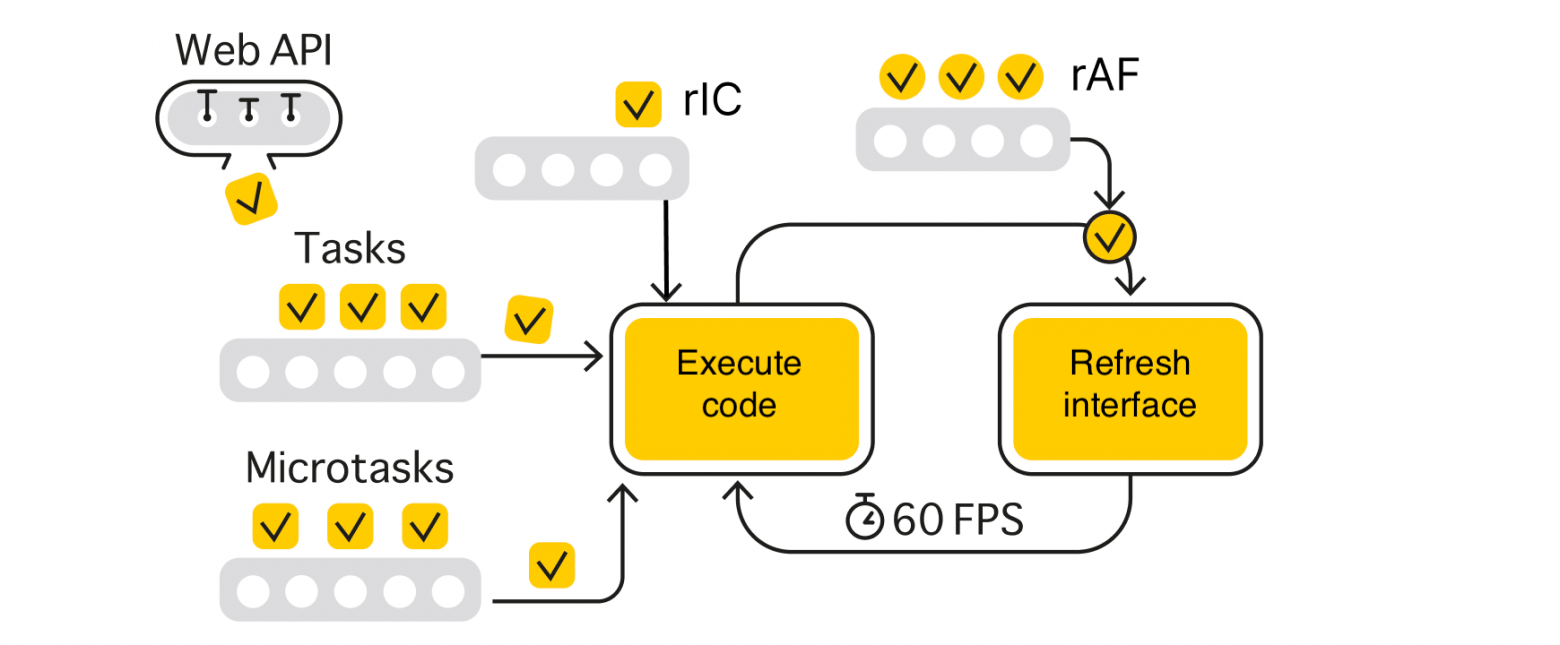
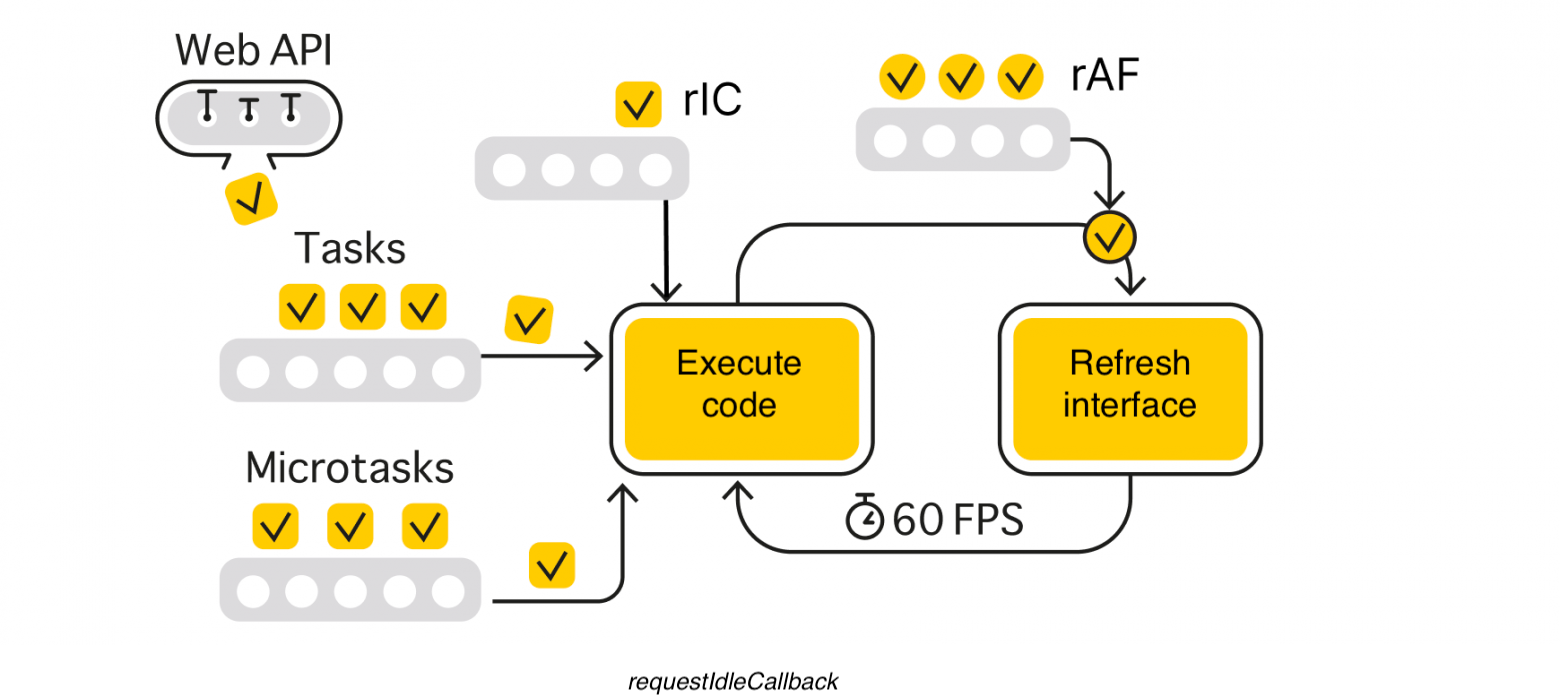
Images

Changed region(s): [[0.0923, 0.031, 0.8308, 0.9612], [0.3077, 0.093, 0.4923, 0.3101], [0.4, 0.9612, 0.5538, 0.9922]]

diff --git a/README.md b/README.md
@@ -305,10 +305,6 @@ As a second argument, you can specify a timeout, and if the task is not complete
 Similar to requestAnimationFrame, to regularly add a task to the queue, you will need to write a recursive function, and to stop it - pass the current identifier to cancelIdleCallback.
 
 ![img.png](request-idle-callback.png?)
-<figcaption align="center">
-<i>requestAnimationFrame</i>
-</figcaption>
-<br />
 
 In contrast to the other queues discussed earlier, requestIdleCallback is still partly an experimental API, with support [missing in Safari](https://caniuse.com/?search=cancelIdleCallback). In addition, this function has a [number of limitations](https://developer.mozilla.org/en-US/docs/Web/API/Background_Tasks_API#getting_the_most_out_of_idle_callbacks), making it convenient to use only for small non-priority tasks without interaction with the DOM, for example, for sending analytical data. You can read more about requestIdleCallback in Paul Lewis’s material [“Using requestIdleCallback”](https://developer.chrome.com/blog/using-requestidlecallback/).
 
